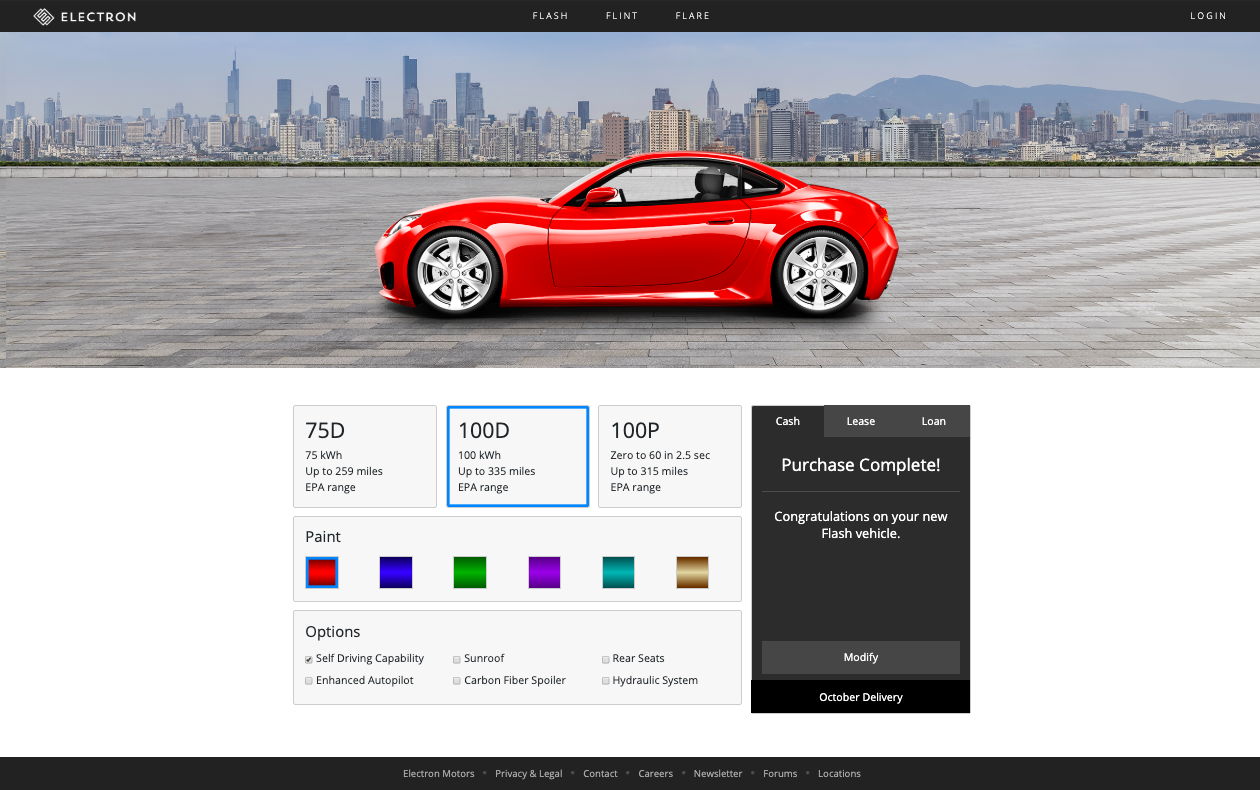
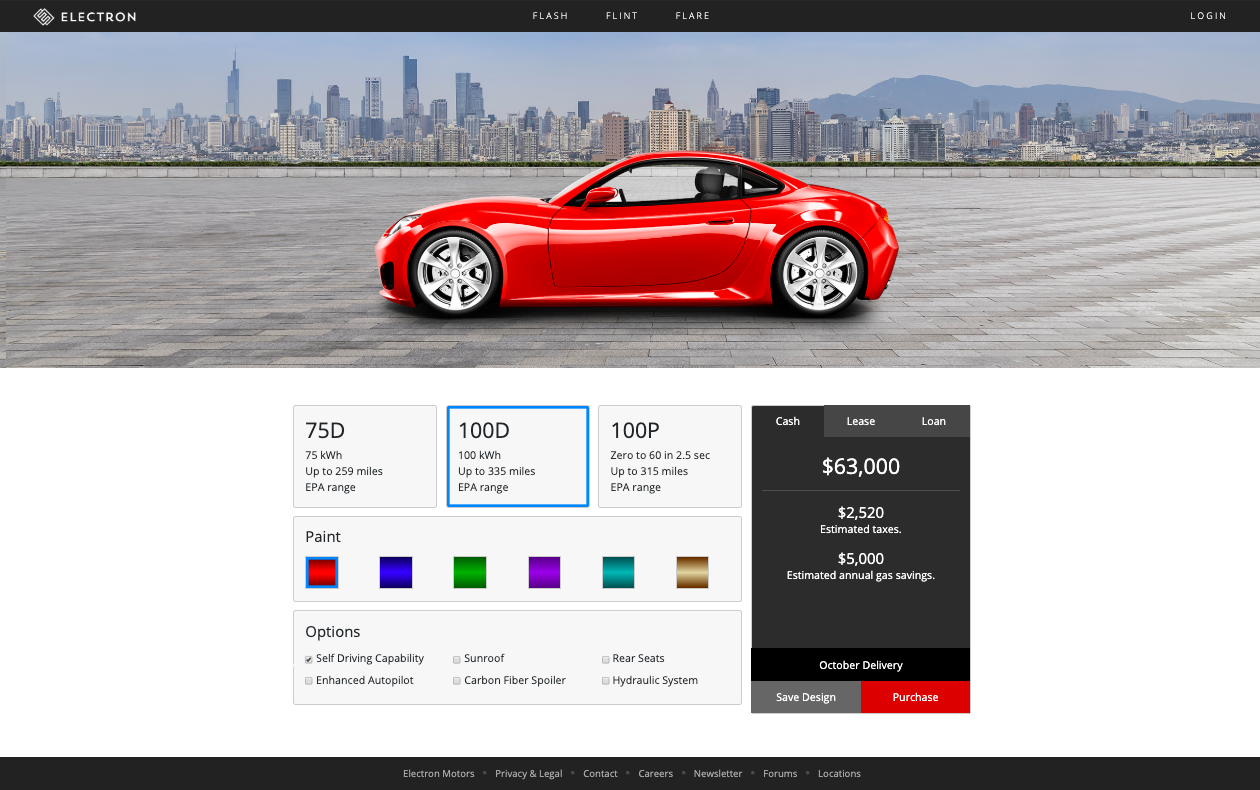
updated customer app images

Changed region(s): [[0.5881, 0.7899, 0.7738, 0.9114], [0.619, 0.638, 0.7429, 0.7291], [0.619, 0.5772, 0.7429, 0.6076]]

diff --git a/src/styles/_chapter-customer-app.scss b/src/styles/_chapter-customer-app.scss
@@ -19,7 +19,7 @@
   }
   .step-4a,
   .step-4 {
-    background: url("../assets/images/chapters/chapter-customer-app/customer-app-3a.png")
+    background: url("../assets/images/chapters/chapter-customer-app/customer-app-4.png")
       center center no-repeat;
   }
 
